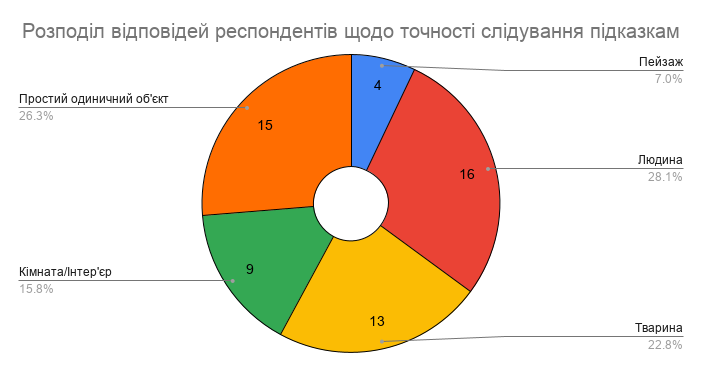
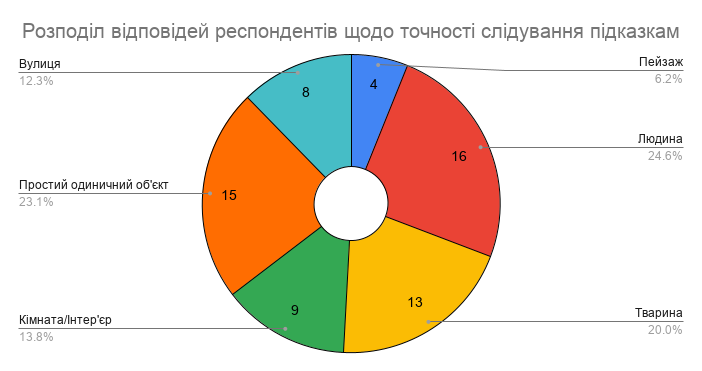
wip: add diploma concl and chap 3

diff --git a/chapters/chapter_03.tex b/chapters/chapter_03.tex
@@ -124,7 +124,7 @@
         Це беззаперечно доводить, що розроблена нейромережа ідеально слухається вводу оператора, жорстко фіксуючи колір у заданій точці та розумно поширюючи його на сусідні області без конфліктів у латентному просторі.
 
     \section{Візуальні результати}
-        Окрім математичного оцінювання, було зібрано по одному результату з певного піддатасету для усіх моделей для порівнняня візуально (Рис. \ref{fig:visual_comparison}) %(Рис. \ref{fig:visual_original}).
+        Окрім об'єктивного математичного оцінювання, для наочного візуального порівняння було відібрано по одному характерному прикладу з кожного тестового набору даних для всіх досліджуваних моделей (рис.~\ref{fig:visual_comparison}).
         \begin{figure}[ht]
             \centering
             
@@ -168,6 +168,16 @@
             \label{fig:visual_comparison}
         \end{figure}
 
+        Візуальний аналіз показує, що повністю автоматична модель DDColor продемонструвала високу якість колоризації квітки (Oxford-102 Flowers).
+        Проте на інших тестових зображеннях її результати виявилися менш стабільними:
+        через відсутність механізму інтерактивного керування модель покладається виключно на внутрішні апріорні знання.
+        У випадках візуальної невизначеності це призводить до вибору <<безпечної>>,
+        тьмяної палітри -- зокрема, яблуко набуло блідого жовто-зеленого відтінку,
+        а поле стало однорідно піщано-коричневим, і користувач не має інструментів для коригування цього результату.
+        Натомість запропонована гібридна модель розв'язує цю проблему:
+        завдяки підтримці просторових підказок вона забезпечує не лише збереження природної насиченості кольорів,
+        але й дозволяє точно керувати процесом колоризації на різних типах сцен.
+
     \section{Користувацьке дослідження якості колоризації}
         Для всебічної оцінки візуальної якості результатів роботи запропонованої гібридної моделі
         та її порівняння з базовим методом було проведено користувацьке дослідження.
@@ -175,8 +185,8 @@
         тому суб'єктивна оцінка є критично важливою для задач генерації зображень.
 
         \subsection{Методологія проведення опитування}
-            Як виглядали етапи опитування можна побачити на рис.~\ref{fig:survey_interface}.
-            \begin{figure}[htbp]
+            Приклад інтерфейсу етапів опитування наведено на рис.~\ref{fig:survey_interface}.
+            \begin{figure}[ht!]
                 \centering
                 \begin{subfigure}[t]{0.32\textwidth}
                     \centering
@@ -204,17 +214,14 @@
             Для тестування було відібрано 6 категорій зображень різної складності:
             пейзаж, людина, тварина, кімната/інтер'єр, простий одиничний об'єкт та вулиця.
 
-            Опитування складалося з протоколу погодження та трьох послідовних етапів, кожен з яких був спрямований на оцінку конкретного аспекту роботи моделі:
+            Опитування складалося з ознайомлення з протоколом погодження та трьох послідовних етапів, кожен з яких був спрямований на оцінку конкретного аспекту роботи моделі:
             \begin{enumerate}
-                \item протокол погодження:
-                    розповідається хто проводить дослідження, яка мета дослідження, які дані збираються,
-                    що відбувається під час дослідження, як використовуються та поширюються результати,
-                    який термін зберігання даних та інше.
+                \item протокол погодження: містить інформацію про мету дослідження, політику збору та обробки даних, а також умови використання результатів;
                 \item оцінка реалістичності:
                     респондентам демонстрували колоризоване зображення
                     та пропонували оцінити його природність за 5-бальною шкалою (від 1 -- <<Дуже неприродне / Багато артефактів>> до 5 -- <<Виглядає як справжнє кольорове зображення>>);
                 \item точність слідування підказкам:
-                    респондентам демонстрували монохромне зображення із нанесеними колірними підказками та 3 варіанти колоризації від 3 різних моделей, а саме SIGGRAPH17, Pix2Pix та нашої запропонованої моделі.
+                    респондентам демонстрували монохромне зображення із нанесеними колірними підказками та три варіанти колоризації від різних моделей, а саме SIGGRAPH17, Pix2Pix та нашої запропонованої моделі.
                     Завданням було обрати варіант, який найкраще враховує задані підказки, зберігаючи реалістичність;
                 \item оцінка багатоваріантності: 
                     респондентам демонстрували кілька згенерованих варіантів розфарбовування одного монохромного зображення.
@@ -222,35 +229,48 @@
             \end{enumerate}
 
         \subsection{Результати першого етапу: Оцінка реалістичності}
-            На першому етапі середня оцінка реалістичності згенерованих зображень склала $3.509$ балів з $5$ можливих.
-            \begin{figure}[htbp]
+            На першому етапі середня оцінка реалістичності згенерованих зображень склала $3.509$ балів з $5$ можливих. Усереднені за зображеннями оцінки можна побачити на рис.~\ref{fig:chart_gen}
+            \begin{figure}[ht!]
                 \centering
                 \includegraphics[width=0.75\textwidth]{images/Розподіл відповідей респондентів щодо реалістичності згенерованих зображень.png}
-                \caption{Розподіл відповідей респондентів щодо реалістичності автоматичних згенерованих зображень}
+                \caption{Розподіл відповідей респондентів щодо реалістичності автоматично згенерованих зображень}
                 \label{fig:chart_gen}
             \end{figure}
             
-            Найвищі оцінки отримали зображення в категоріях <<простий одиничний об'єкт>> та <<людина>>, $4.056$ та $3.944$ відповідно,
+            Найвищі оцінки отримали зображення в категоріях <<простий одиничний об'єкт>> та <<людина>>, $4.056$ та $3.944$ бали відповідно,
             що свідчить про високу здатність моделі коректно відновлювати природні відтінки шкіри та локальні кольори ізольованих об'єктів.
             
-            Зображення з великою кількістю дрібних деталей або з висоти, такі категорії як <<пейзаж>> і <<вулиця>> отримали дещо нижчі бали, $2.333$ та $3.556$ відповідно,
-            що пояснюється складністю просторового розподілу кольору в дрібних текстурах та падінням у безпечні сірі або сепійні кольори через невідоме зображення.
+            Зображення з великою кількістю дрібних деталей або зняті з висоти (категорії <<пейзаж>> і <<вулиця>>) отримали дещо нижчі бали, $2.333$ та $3.556$ відповідно.
+            Це пояснюється складністю просторового розподілу кольору в дрібних текстурах та тяжінням моделі до безпечних сірих або сепійних відтінків у зонах із високою візуальною невизначеністю.
 
         \subsection{Результати другого етапу: Точність слідування підказкам}
-            Цей етап мав на меті порівняти ефективність механізму інтерактивних підказок запропонованої моделі з альтернативними варіантами.
-            \begin{figure}[htbp]
+            Цей етап мав на меті порівняти ефективність механізму інтерактивних підказок запропонованої моделі з існуючими альтернативними рішеннями (Pix2Pix та SIGGRAPH17).
+            Головним критерієм оцінки була здатність нейромережі локалізувати заданий колір у межах цільового об'єкта,
+            не допускаючи його неприродного розтікання на сусідні області, та водночас зберігати загальну візуальну цілісність сцени.
+
+            Розподіл відповідей, наведений на діаграмі (рис.~\ref{fig:chart_hints}), демонструє, у яких саме категоріях зображень гібридна архітектура найкраще впоралася із завданням за оцінками респондентів. 
+            \begin{figure}[ht!]
                 \centering
                 \includegraphics[width=0.75\textwidth]{images/Розподіл відповідей респондентів щодо точності слідування підказкам.png}
                 \caption{Розподіл відповідей респондентів щодо точності слідування підказкам}
                 \label{fig:chart_hints}
             \end{figure}
+        
+            Найвищі показники точності зафіксовано для категорій <<Людина>> ($16$ відповідей) та <<Простий одиничний об'єкт>> ($15$ відповідей).
+            Це підтверджує ефективність інтеграції блоків B-Mamba у структуру U-Net при роботі з об'єктами, що мають чіткі семантичні межі.
+            Мережа коректно реєструє просторові координати підказок і поширює заданий колір виключно в межах однорідних зон, не допускаючи ефекту <<розтікання>> на фон.
             
+            Натомість найменшу кількість голосів отримала категорія <<Пейзаж>> ($4$ відповіді).
+            Це пояснюється високою структурною складністю таких сцен, великою кількістю дрібних деталей, а також критичною залежністю результату від якості самих користувацьких підказок. 
+            У складних ландшафтах кількох розріджених точкових маркерів виявляється недостатньо для подолання семантичної неоднозначності, що іноді призводить до ігнорування підказки або генерації артефактів.
+            Це вказує на те, що для подібних зображень користувачеві необхідно надавати більш щільні та продумані колірні орієнтири.
+
             У $60.2\%$ випадків респонденти обрали зображення, згенероване розробленою гібридною моделлю,
             як таке, що найкраще враховує задані підказки без втрати загальної якості зображення.
 
         \subsection{Результати третього етапу: Оцінка багатоваріантності}
-            На фінальному етапі оцінювалася здатність моделі генерувати правдоподібні альтернативні варіанти.
-            \begin{figure}[htbp]
+            На фінальному етапі оцінювалася здатність моделі генерувати правдоподібні альтернативні варіанти, результати можна побачити на рис.~\ref{fig:chart_multi}.
+            \begin{figure}[ht!]
                 \centering
                 \includegraphics[width=0.75\textwidth]{images/Розподіл відповідей респондентів щодо правдоподібності альтернативних варіантів.png}
                 \caption{Розподіл відповідей респондентів щодо правдоподібності альтернативних варіантів}
@@ -261,15 +281,15 @@
             У $66.7\%$ випадків користувачі обрали варіант <<Тільки один або два варіанти виглядають природно, інші -- сумнівно>>.
             
             Цей результат підтверджує, що додавання генерації випадкових підказок дозволяє створювати різні версії розфарбовування,
-            але зберігати їх візуальну правдоподібність в очах людини-спостерігача можливо,
-            якщо колір цієї підказки теж буде генеруватися моделю, а не просто випадковим чином в нормальному розподілі.
+            але зберігати їх максимальну візуальну правдоподібність в очах людини-спостерігача буде можливо за умови,
+            якщо колір для підказки генеруватиметься додатковою моделлю на основі семантики об'єкта, а не просто вибиратиметься випадковим чином із нормального розподілу.
 
         \subsection{Висновки за результатами користувацького дослідження}
             Проведене опитування підтвердило гіпотезу про те,
             що запропонована гібридна архітектура ефективно справляється із задачею інтерактивної багатоваріантної колоризації.
             Модель отримала високі суб'єктивні оцінки щодо загальної реалістичності,
             продемонструвала значну перевагу над базовим підходом у точності обробки локальних колірних підказок користувача,
-            а також довела здатність генерувати серію правдоподібних альтернативних кольорових рішень для одного зображення.
+            а також довела здатність генерувати серію альтернативних кольорових рішень для одного зображення.
 
 \chapconclude{\ref{chap:results}}
     В ході експериментального дослідження розроблена нейромережева модель B-Mamba
@@ -280,6 +300,8 @@
     Рекордно низький $\mathrm{MSE}_{\mathrm{HINT}} = 6.1 \times 10^{-5}$ підтверджує створення бездоганно керованої інтерактивної системи,
     яка здатна в реальному часі генерувати багатоваріантні результати за бажанням користувача.
 
+    Окрім об'єктивних метрик, результати користувацького дослідження довели високу візуальну реалістичність згенерованих зображень (середня оцінка $3.509$ з $5$ балів)
+    та значну перевагу моделі в точності обробки локальних підказок (перевага у $60.2\%$ випадків порівняно з базовими методами).
     %     % Подивіться, як нераціонально використовується простір, якщо не писати 
     %     % вступи до розділів. :)
 

diff --git a/chapters/conclusions.tex b/chapters/conclusions.tex
@@ -24,10 +24,11 @@
             Архітектура забезпечила найкращу перцептивну якість із показниками $\mathrm{LPIPS}$ на рівні $0.143$ та $\mathrm{FID}$ $3.078$ (порівняно з $5.031$ у важкої моделі DDColor).
             Система довела бездоганну точність дотримання користувацьких умов із рекордно низькою похибкою підказок $\mathrm{MSE}_{\mathrm{HINT}}$ на рівні $6.1 \times 10^{-5}$.
             Підтверджено високу апаратну ефективність: час інференсу склав $15.08$ мс при споживанні $187.29$ МБ відеопам'яті, що в $2.3$ раза швидше та майже в $6$ разів економніше порівняно з еталонною моделлю DDColor.
-    \end{enumerate}
 
-    % ЗАГЛУШКА ДЛЯ ОПИТУВАННЯ
-    % Проведене користувацьке дослідження підтвердило високі результати об'єктивних метрик: $X\%$ респондентів визнали згенеровані розробленою моделлю зображення найбільш реалістичними, а середня оцінка зручності та керованості інтерактивного процесу склала $Y$ з $5$ балів.
+        \item Проведено \textbf{користувацьке дослідження для суб'єктивної оцінки} якості генерації.
+            Підтверджено, що запропонована гібридна архітектура ефективно компенсує недоліки суто автоматичної колоризації. 
+            Модель отримала високі оцінки загальної реалістичності ($3.509$ з $5$ балів), перевершила базові підходи у здатності точно слідувати просторовим підказкам (перевага у $60.2\%$ випадків) та довела здатність генерувати серію правдоподібних багатоваріантних рішень для складних сцен.
+    \end{enumerate}
 
     \textbf{Перспективи подальших досліджень} у даній предметній області включають:
     \begin{itemize}[label=$\bullet$]